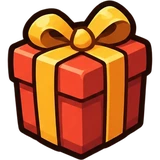
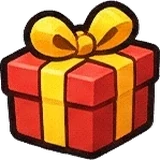
VER 78: fix daily gift images (new art everywhere)

diff --git a/index.html b/index.html
@@ -2,7 +2,7 @@
 <html lang="ru">
 <head>
 <script>/* Telegram держит старый index.html в кэше. Если на сайте версия новее (ver.txt) — перезагружаемся с ?v=, это обходит кэш. Меняй VER и ver.txt вместе при выкладке */
-const VER = '77';
+const VER = '78';
 fetch('ver.txt?' + Date.now(), { cache: 'no-store' }).then(r => r.ok ? r.text() : '').then(v => { v = v.trim(); if (!v || v === VER) return; try { if (sessionStorage.vr === v) return; sessionStorage.vr = v; } catch (e) {} const q = new URLSearchParams(location.search); q.set('v', v); location.replace(location.pathname + '?' + q + location.hash); }).catch(() => {});
 </script>
 <meta charset="utf-8">
@@ -182,7 +182,7 @@ nav .dot{position:absolute;top:2px;right:10px;width:12px;height:12px;border-radi
 nav button.home .mi{width:1.25em;height:1.25em}.hb .mi{width:1.45em;height:1.45em}.hcard .big .mi{width:1.6em;height:1.6em}
 .ing{display:inline-block;width:1.35em;height:1.35em;vertical-align:-.3em;margin:0 .08em;background:center/contain no-repeat}
 .ing.s{background-image:url(img/ui/silver.webp)}.ing.base{background-image:url(img/deco/fort.webp)}.ing.cash{background-image:url(img/ui/cash.webp)}.ing.bag{background-image:url(img/ui/bag.webp)}.ing.fire{background-image:url(img/ui/fire.webp)}.ing.skull{background-image:url(img/ui/skull.webp)}.ing.air{background-image:url(img/ui/air.webp)}.ing.armor{background-image:url(img/ui/armor.webp)}.ing.timer{background-image:url(img/ui/timer.webp)}.ing.boom{background-image:url(img/ui/boom.webp)}.ing.g{background-image:url(img/ui/gold.webp)}.ing.f{background-image:url(img/ui/fuel.webp)}.ing.st{background-image:url(img/ui/star.webp)}
-.ing.gem{background-image:url(img/ui/gem.webp)}.ing.lk{background-image:url(img/ui/lock.webp)}.ing.gift{background-image:url(img/ui/gift.webp)}.ing.tk{background-image:url(img/ui/ticket.webp)}
+.ing.gem{background-image:url(img/ui/gem.webp)}.ing.lk{background-image:url(img/ui/lock.webp)}.ing.gift{background-image:url(img/ui/gift.webp?v=2)}.ing.tk{background-image:url(img/ui/ticket.webp)}
 .enl{display:flex;flex-wrap:wrap;gap:6px;justify-content:center;margin:10px 0}
 .en{position:relative;width:74px;background:#fff;border:3px solid var(--ink);border-radius:14px;padding:2px 2px 4px;font-size:11px;line-height:1.1}
 .en img{width:56px;height:56px;margin:0 auto}
@@ -833,8 +833,8 @@ const GIFTC = { red: ['#ff5b4f', '#ffd23f'], blue: ['#45a6ff', '#ffffff'], green
 function icon(kind, id, size = 96, attrs, serial) {
   if (kind === 'b' || kind === 'bo') return `img/ui/box_${id}${kind === 'bo' ? '_o' : ''}.webp`;   // сундуки — нарисованные картинки (bo = открытый)
   if ((kind === 't' && !attrs) || kind === 'e' && !(ENEMY[id] && ENEMY[id].code)) return `img/units/i_${kind}_${id}.webp?v=3`;   // танки и враги — нарисованные картинки (мифики с камуфляжем — кодом)
-  if (kind === 'g' && /^dd$/.test(id)) return `img/ui/gift_${id}.webp`;
-  if (kind === 'g') return `img/ui/gift${GIFTC[id] && id !== 'red' ? '_' + id : ''}.webp`;   // подарки дня — картинки 5 цветов
+  if (kind === 'g' && /^d\d$/.test(id)) return `img/ui/gift_${id}.webp`;
+  if (kind === 'g') return `img/ui/gift${GIFTC[id] && id !== 'red' ? '_' + id : ''}.webp?v=2`;   // подарки дня — картинки 5 цветов
   const sk = attrs ? nftSkin(attrs, serial) : null, k = kind + id + size + (sk ? sk.h + sk.pt + sk.fl + sk.gr + sk.n : ''); if (ICON[k]) return ICON[k];
   const cv2 = document.createElement('canvas'); cv2.width = cv2.height = size * 2; const c = cv2.getContext('2d'); c.scale(2, 2);
   if (kind === 't') { const t = tankById(id); drawTank(c, size / 2, size / 2, size * .62, skinLook(t, sk), -Math.PI / 4, -Math.PI / 4, sk ? { gear: sk.gr, num: sk.n } : {}); if (sk && sk.fl) { c.font = `${Math.round(size * .26)}px system-ui`; c.fillText(sk.fl, size * .04, size * .3); } }
